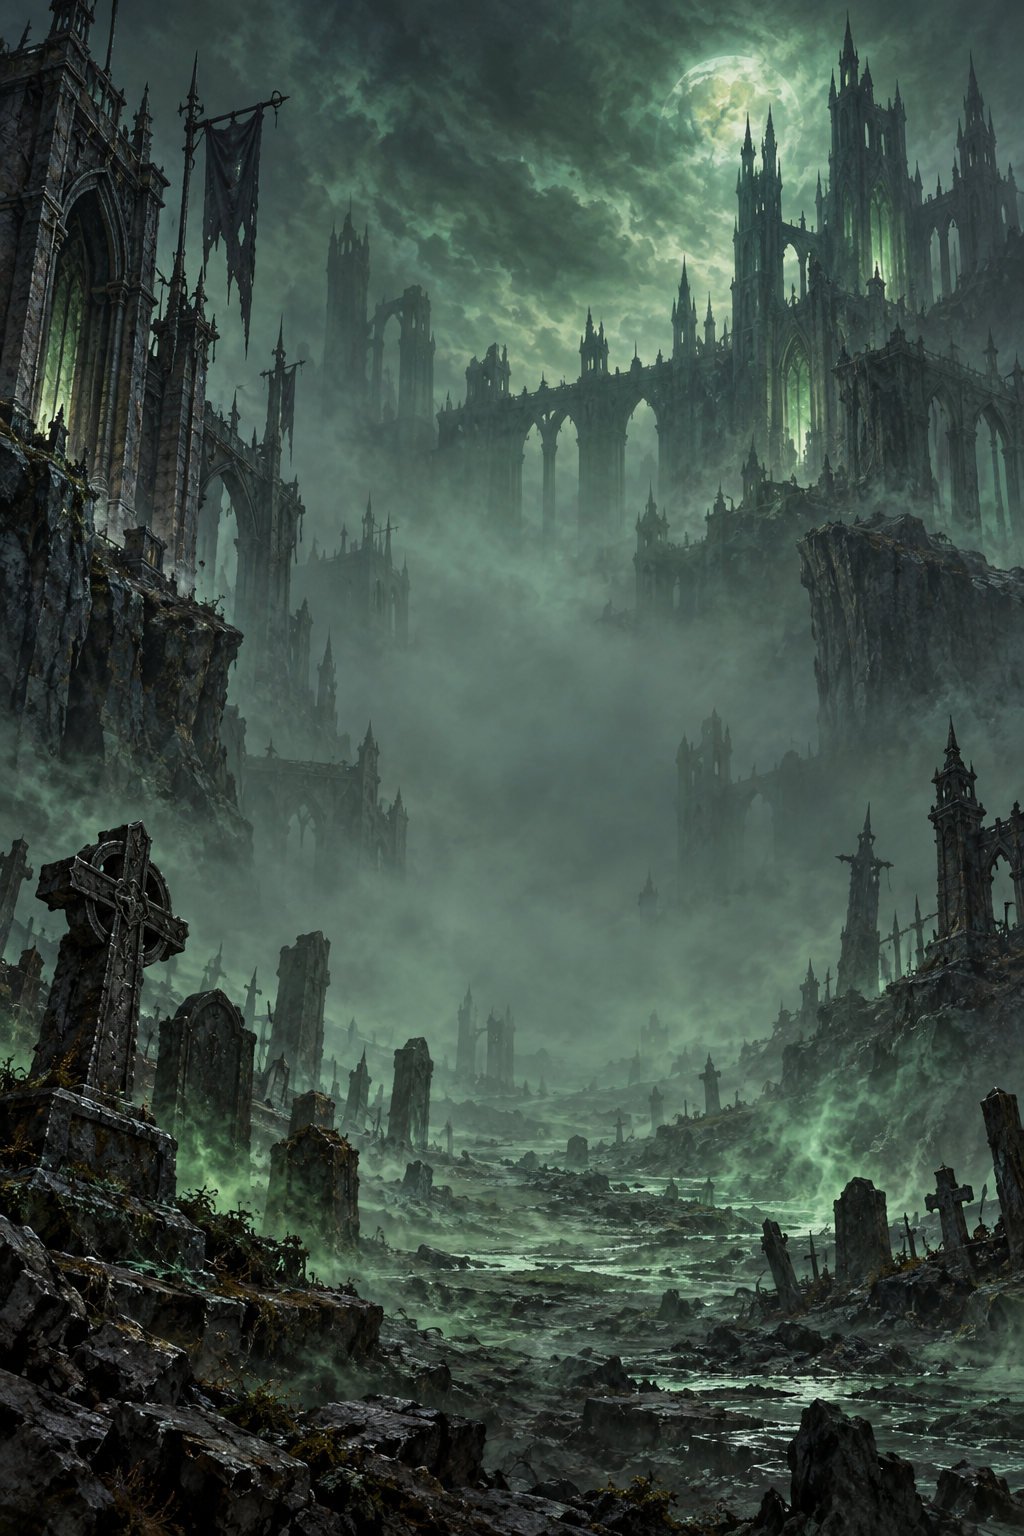
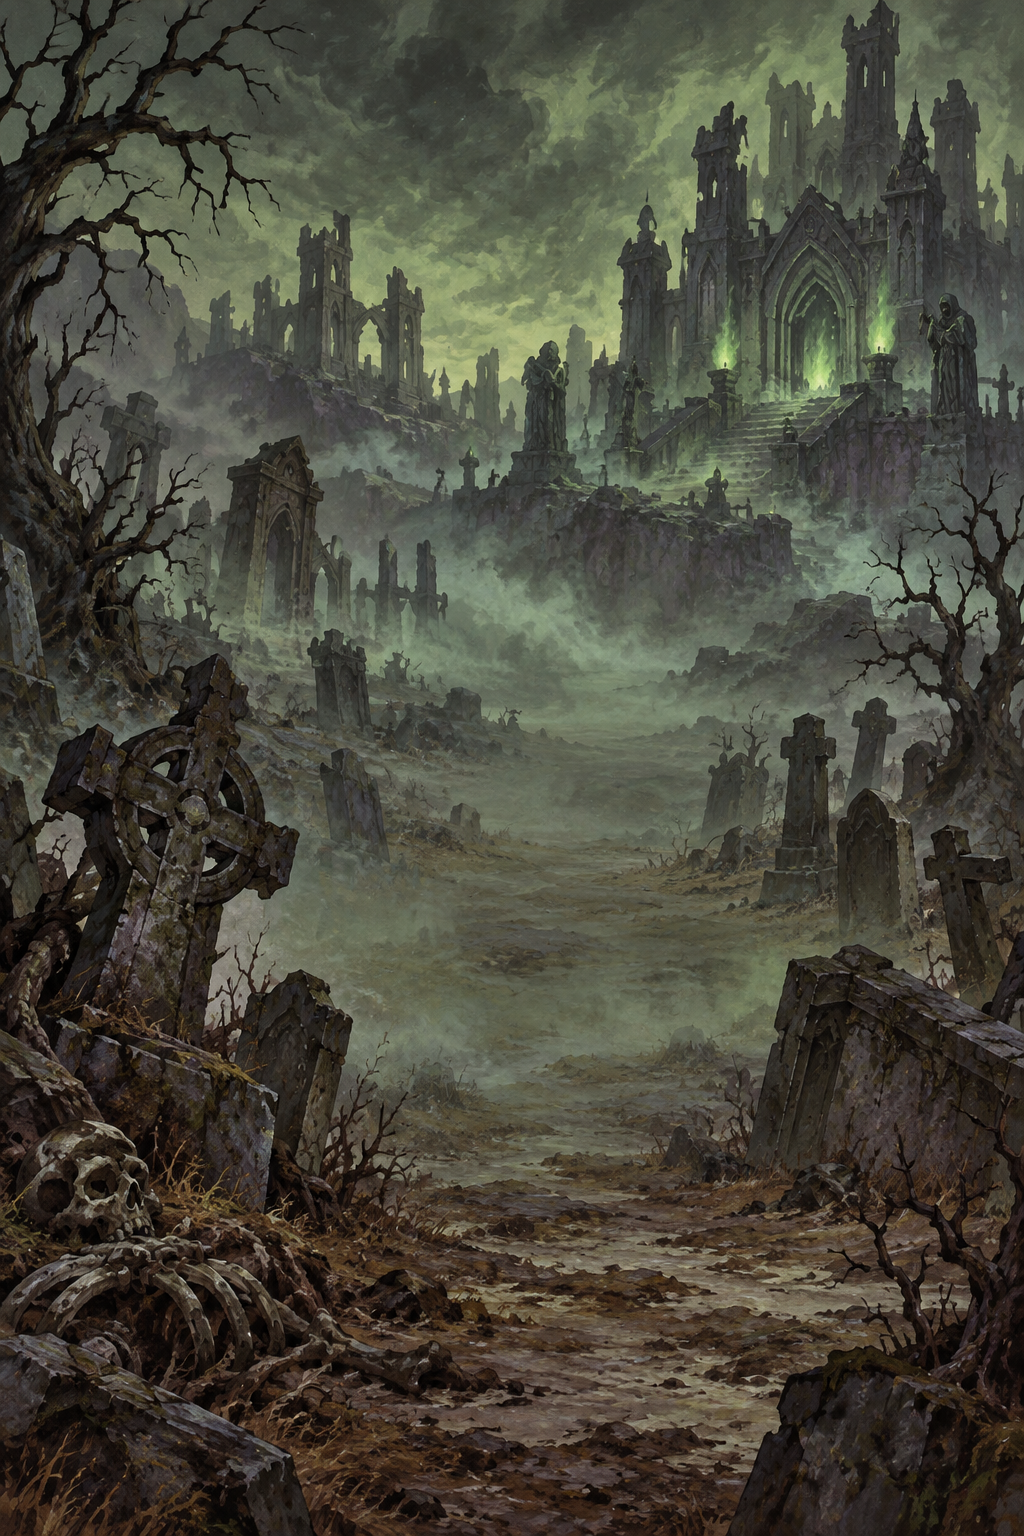
Repaint custom class backgrounds in a Classic fantasy style

diff --git a/src/app.js b/src/app.js
@@ -6,6 +6,7 @@
   const allEntries = references.flatMap(c => c.entries.map(e => ({ ...e, className: c.name, classSlug: c.slug, gameVersion: c.gameVersion })));
   const bottomClasses = new Set(['death-knight','demon-hunter','monk']);
 const classNavigation = classes => [...classes].sort((a,b) => Number(bottomClasses.has(a.sourceSlug))-Number(bottomClasses.has(b.sourceSlug)));
+const artworkUrl = value => /^assets\/spec-backgrounds\/(?:blood|unholy|havoc|vengeance|felcraft|martial-arts|zealot|devotion)\.webp$/.test(value) ? value+'?v=20261012-classic1' : value;
 const $ = id => document.getElementById(id);
   const esc = value => String(value == null ? '' : value).replace(/[&<>"']/g, c => ({ '&': '&amp;', '<': '&lt;', '>': '&gt;', '"': '&quot;', "'": '&#39;' }[c]));
   const uid = prefix => prefix + '-' + (crypto.randomUUID ? crypto.randomUUID() : Date.now().toString(36) + Math.random().toString(36).slice(2));
@@ -201,7 +202,7 @@ const $ = id => document.getElementById(id);
       }).join('');
       const arrowId = 'arrow-' + tree.id;
       const arrows = '';
-      return `<section class="tree-panel" aria-label="${esc(tree.name)} talent tree"><div class="tree-title"><img src="${esc(tree.icon)}" alt=""><h2>${esc(tree.name)}</h2><span class="tree-points" aria-label="Points in ${esc(tree.name)}">${C.sum(tree,c.ranks)}</span><button class="quiet" data-action="${mode === 'design' ? 'tree-settings' : 'reset-tree'}" data-tree="${esc(tree.id)}" aria-label="${mode === 'design' ? 'Edit' : 'Reset'} ${esc(tree.name)}">${mode === 'design' ? '⚙' : '↺'}</button></div><div class="tree-art" style="--tree-image:url('${esc(tree.background)}')"><svg class="arrows" viewBox="0 0 400 476" preserveAspectRatio="none" aria-hidden="true"><defs><marker id="${arrowId}" viewBox="0 0 10 10" refX="8" refY="5" markerWidth="5" markerHeight="5" orient="auto"><path d="M 1 1 L 9 5 L 1 9 Z" fill="#a39b7b" stroke="#13120e" stroke-width="1"/></marker></defs>${arrows}</svg><div class="talent-grid">${nodes}</div></div><div class="tree-bottom"><span>${tree.talents.length} TALENTS</span><span>${C.sum(tree,c.ranks)} POINTS SPENT</span></div></section>`;
+      return `<section class="tree-panel" aria-label="${esc(tree.name)} talent tree"><div class="tree-title"><img src="${esc(tree.icon)}" alt=""><h2>${esc(tree.name)}</h2><span class="tree-points" aria-label="Points in ${esc(tree.name)}">${C.sum(tree,c.ranks)}</span><button class="quiet" data-action="${mode === 'design' ? 'tree-settings' : 'reset-tree'}" data-tree="${esc(tree.id)}" aria-label="${mode === 'design' ? 'Edit' : 'Reset'} ${esc(tree.name)}">${mode === 'design' ? '⚙' : '↺'}</button></div><div class="tree-art" style="--tree-image:url('${esc(artworkUrl(tree.background))}')"><svg class="arrows" viewBox="0 0 400 476" preserveAspectRatio="none" aria-hidden="true"><defs><marker id="${arrowId}" viewBox="0 0 10 10" refX="8" refY="5" markerWidth="5" markerHeight="5" orient="auto"><path d="M 1 1 L 9 5 L 1 9 Z" fill="#a39b7b" stroke="#13120e" stroke-width="1"/></marker></defs>${arrows}</svg><div class="talent-grid">${nodes}</div></div><div class="tree-bottom"><span>${tree.talents.length} TALENTS</span><span>${C.sum(tree,c.ranks)} POINTS SPENT</span></div></section>`;
     }).join('');
     $('canvas').innerHTML = `<div class="allocation-bar"><div class="allocation"><strong>${c.pointBudget - spent}</strong><span>points left</span></div><div class="level">POINTS SPENT <b>${spent} / ${c.pointBudget}</b><br>REQUIRED LEVEL <b>${requiredLevel}</b></div><button class="secondary" data-action="reset-all">↺ Reset build</button></div><div class="tree-grid">${grid}</div><div class="canvas-legend"><span><i class="legend-dot available"></i>Available</span><span><i class="legend-dot maxed"></i>Maxed</span><span><i class="legend-dot"></i>Locked</span><span class="hint">${mode === 'build' ? 'Click +1 · Right-click −1 · Select for details' : 'Select a talent to edit · ＋ adds a new talent'}</span></div>`;
   }
@@ -310,12 +311,12 @@ const $ = id => document.getElementById(id);
   }
   function treeDialog(id) {
     const tree=current().trees.find(t=>t.id===id); if(!tree)return;
-    dialog('Edit talent tree',`<form id="tree-edit" class="dialog-form" data-tree="${esc(id)}">${field('Tree name','name',tree.name,'text','maxlength="60" required')}${selectField('Panel artwork','background',tree.background,[...artOptions,...(!artOptions.some(([path])=>path===tree.background)?[[tree.background,'Uploaded artwork']]:[])])}<div class="artwork-preview" id="artwork-preview" style="background-image:linear-gradient(#0002,#0005),url('${esc(tree.background)}')" role="img" aria-label="Selected talent panel artwork"></div><div><p class="tiny-label">SPEC ARTWORK</p><div class="artwork-gallery">${specArtwork.map(a=>`<button type="button" class="artwork-choice" data-action="choose-background" data-background="${esc(a.path)}" aria-label="Choose ${esc(a.label)} artwork" aria-pressed="${a.path===tree.background}"><img src="${esc(a.path)}" alt="" loading="lazy"><span>${esc(a.label)}</span></button>`).join('')}</div></div><button type="button" class="secondary" data-action="upload-background" data-tree="${esc(id)}">Upload background artwork</button><p class="help">Original generated scenery for all nine specs. Select any scene, then Apply tree settings. You can also upload a PNG, JPEG, or WebP under 2 MB.</p><div class="dialog-footer"><button type="button" class="secondary" data-action="close-dialog">Cancel</button><button class="gold" type="submit">Apply tree settings</button></div></form>`);
+    dialog('Edit talent tree',`<form id="tree-edit" class="dialog-form" data-tree="${esc(id)}">${field('Tree name','name',tree.name,'text','maxlength="60" required')}${selectField('Panel artwork','background',tree.background,[...artOptions,...(!artOptions.some(([path])=>path===tree.background)?[[tree.background,'Uploaded artwork']]:[])])}<div class="artwork-preview" id="artwork-preview" style="background-image:linear-gradient(#0002,#0005),url('${esc(artworkUrl(tree.background))}')" role="img" aria-label="Selected talent panel artwork"></div><div><p class="tiny-label">SPEC ARTWORK</p><div class="artwork-gallery">${specArtwork.map(a=>`<button type="button" class="artwork-choice" data-action="choose-background" data-background="${esc(a.path)}" aria-label="Choose ${esc(a.label)} artwork" aria-pressed="${a.path===tree.background}"><img src="${esc(artworkUrl(a.path))}" alt="" loading="lazy"><span>${esc(a.label)}</span></button>`).join('')}</div></div><button type="button" class="secondary" data-action="upload-background" data-tree="${esc(id)}">Upload background artwork</button><p class="help">Original generated scenery for all nine specs. Select any scene, then Apply tree settings. You can also upload a PNG, JPEG, or WebP under 2 MB.</p><div class="dialog-footer"><button type="button" class="secondary" data-action="close-dialog">Cancel</button><button class="gold" type="submit">Apply tree settings</button></div></form>`);
   }
   function previewTreeArtwork() {
     const form=$('tree-edit');if(!form)return;
     const path=form.elements.background.value;
-    $('artwork-preview').style.backgroundImage=`linear-gradient(#0002,#0005),url('${path}')`;
+    $('artwork-preview').style.backgroundImage=`linear-gradient(#0002,#0005),url('${artworkUrl(path)}')`;
     form.querySelectorAll('.artwork-choice').forEach(button=>button.setAttribute('aria-pressed',String(button.dataset.background===path)));
   }
   function newTalent(tree,row,col,reference=null) {

diff --git a/src/calculator.js b/src/calculator.js
@@ -3,6 +3,7 @@
 const C=window.TalentForgeCore,B=window.TalentForgeBuild;
 const bottomClasses = new Set(['death-knight','demon-hunter','monk']);
 const classNavigation = classes => [...classes].sort((a,b) => Number(bottomClasses.has(a.sourceSlug))-Number(bottomClasses.has(b.sourceSlug)));
+const artworkUrl = value => /^assets\/spec-backgrounds\/(?:blood|unholy|havoc|vengeance|felcraft|martial-arts|zealot|devotion)\.webp$/.test(value) ? value+'?v=20261012-classic1' : value;
 const $=id=>document.getElementById(id);
 const esc=value=>String(value??'').replace(/[&<>"']/g,c=>({'&':'&amp;','<':'&lt;','>':'&gt;','"':'&quot;',"'":'&#39;'}[c]));
 let project;
@@ -32,7 +33,7 @@ for(const id of ['class-name','breadcrumb-class'])$(id).textContent=c.name;$('cl
 for(const name of ['talents','abilities']){$('tab-'+name).classList.toggle('active',view===name);$('tab-'+name).setAttribute('aria-selected',view===name);} $('workspace').setAttribute('aria-labelledby','tab-'+view);
 if(view==='talents')renderTalents();else renderAbilities();renderInspector();if(view==='talents')requestAnimationFrame(()=>drawDependencyArrows());}
 function renderTalents(){const c=current(),spent=C.total(c),level=spent?Math.min(c.levelCap,c.startLevel+spent-1):c.startLevel-1;
-const trees=c.trees.map(tree=>{const nodes=Array.from({length:28},(_,i)=>{const t=tree.talents.find(t=>t.row===Math.floor(i/4)&&t.col===i%4);if(!t)return '<div class="talent-cell"></div>';const rank=c.ranks[t.id]||0,locked=!!C.unmet(c,tree,t),state=rank===t.maxRanks?'maxed':rank?'allocated':locked?'locked':'available';return `<div class="talent-cell">${t.col===0?`<span class="tier-indicator" aria-hidden="true">${t.row?t.row*c.pointsPerTier:''}</span>`:''}<button class="talent-node ${state} ${selection?.id===t.id?'selected':''}" data-talent-id="${esc(t.id)}" data-tree="${esc(tree.id)}" aria-label="${esc(t.name)}, rank ${rank} of ${t.maxRanks}${locked?', locked':''}"><img src="${esc(t.icon)}" alt="" draggable="false"><span class="rank-badge">${rank}/${t.maxRanks}</span></button></div>`;}).join('');return `<section class="tree-panel" aria-label="${esc(tree.name)} talent tree"><div class="tree-title"><img src="${esc(tree.icon)}" alt=""><h2>${esc(tree.name)}</h2><span class="tree-points">${C.sum(tree,c.ranks)}</span><button class="quiet" data-action="reset-tree" data-tree="${esc(tree.id)}" aria-label="Reset ${esc(tree.name)}">↺</button></div><div class="tree-art" style="--tree-image:url('${esc(tree.background)}')"><svg class="arrows" aria-hidden="true"><defs><marker id="arrow-${esc(tree.id)}"></marker></defs></svg><div class="talent-grid">${nodes}</div></div><div class="tree-bottom"><span>${tree.talents.length} TALENTS</span><span>${C.sum(tree,c.ranks)} POINTS SPENT</span></div></section>`;}).join('');
+const trees=c.trees.map(tree=>{const nodes=Array.from({length:28},(_,i)=>{const t=tree.talents.find(t=>t.row===Math.floor(i/4)&&t.col===i%4);if(!t)return '<div class="talent-cell"></div>';const rank=c.ranks[t.id]||0,locked=!!C.unmet(c,tree,t),state=rank===t.maxRanks?'maxed':rank?'allocated':locked?'locked':'available';return `<div class="talent-cell">${t.col===0?`<span class="tier-indicator" aria-hidden="true">${t.row?t.row*c.pointsPerTier:''}</span>`:''}<button class="talent-node ${state} ${selection?.id===t.id?'selected':''}" data-talent-id="${esc(t.id)}" data-tree="${esc(tree.id)}" aria-label="${esc(t.name)}, rank ${rank} of ${t.maxRanks}${locked?', locked':''}"><img src="${esc(t.icon)}" alt="" draggable="false"><span class="rank-badge">${rank}/${t.maxRanks}</span></button></div>`;}).join('');return `<section class="tree-panel" aria-label="${esc(tree.name)} talent tree"><div class="tree-title"><img src="${esc(tree.icon)}" alt=""><h2>${esc(tree.name)}</h2><span class="tree-points">${C.sum(tree,c.ranks)}</span><button class="quiet" data-action="reset-tree" data-tree="${esc(tree.id)}" aria-label="Reset ${esc(tree.name)}">↺</button></div><div class="tree-art" style="--tree-image:url('${esc(artworkUrl(tree.background))}')"><svg class="arrows" aria-hidden="true"><defs><marker id="arrow-${esc(tree.id)}"></marker></defs></svg><div class="talent-grid">${nodes}</div></div><div class="tree-bottom"><span>${tree.talents.length} TALENTS</span><span>${C.sum(tree,c.ranks)} POINTS SPENT</span></div></section>`;}).join('');
 $('canvas').innerHTML=`<div class="allocation-bar"><div class="allocation"><strong>${c.pointBudget-spent}</strong><span>points left</span></div><div class="level">POINTS SPENT <b>${spent} / ${c.pointBudget}</b><br>REQUIRED LEVEL <b>${level}</b></div><button class="secondary" data-action="reset-all">↺ Reset build</button></div><div class="tree-grid">${trees}</div><div class="canvas-legend"><span><i class="legend-dot available"></i>Available</span><span><i class="legend-dot maxed"></i>Maxed</span><span><i class="legend-dot"></i>Locked</span><span class="hint">Click +1 · Shift-click all ranks · Right-click −1</span></div>`;}
   function drawDependencyArrows(draft) {
     if(view!=='talents')return;

diff --git a/src/index.html b/src/index.html
@@ -34,6 +34,6 @@
   <dialog id="share-dialog" aria-labelledby="share-title"><div class="dialog-header"><h2 id="share-title">Share your build</h2><button id="close-share" class="quiet" aria-label="Close share dialog">×</button></div><div class="build-link"><label for="build-link">Build link</label><input id="build-link" readonly><p>Your friends can open this link and change their own points. No sign-in needed.</p><button id="copy-link" class="gold">Copy link</button></div></dialog>
   <script src="core.js"></script>
   <script src="builds.js"></script>
-  <script src="calculator.js?v=20261012-ui2"></script>
+  <script src="calculator.js?v=20261012-art1"></script>
 </body>
 </html>

diff --git a/src/designer.html b/src/designer.html
@@ -40,6 +40,6 @@
   <script src="core.js?v=20261012-2"></script>
   <script src="library-tools.js?v=20261012-2"></script>
   <script src="share.js?v=20261012-2"></script>
-  <script src="app.js?v=20261012-ui2"></script>
+  <script src="app.js?v=20261012-art1"></script>
 </body>
 </html>

diff --git a/README.md b/README.md
@@ -55,4 +55,6 @@ Open `http://localhost:4180/`. All paths are relative, so the same output works 
 
 Game icons and original reference spell data come from [Wowhead](https://www.wowhead.com/forever). Current Forever spell effects and coefficients come from [ForeverDB](https://foreverdb.net), which extracts the Forever client data. Custom designs can be rewritten in Design mode. Custom spec background art was generated for this project. Warcraft game material belongs to its respective owners; this is an unofficial fan project.
 
+The Blood, Unholy, Demon Hunter, and Scarlet Monk backgrounds use a Classic-era painted style generated with the built-in image generation tool. Frost retains its original frozen-citadel image. The [prompt set](assets/spec-backgrounds/classic-art-prompts.json) records the eight generated replacements. Artwork loading is versioned without changing project definitions, saved ranks, or uploaded backgrounds.
+
 Workflow setup follows [GitHub's custom Pages workflow documentation](https://docs.github.com/en/pages/getting-started-with-github-pages/using-custom-workflows-with-github-pages).
